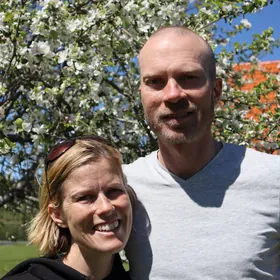
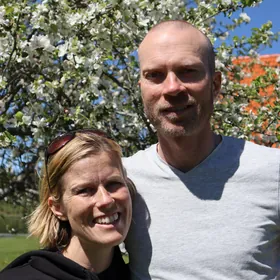
Restid till Eksjö 30 min och värdbilden högre i cirkeln (#63)
* Restid till Eksjö 30 min och värdbilden högre i cirkeln

- Eksjö: restiden ändrad till ca 30 min med bil på alla språk.
- Startsidan: bilden på värdarna förstoras lite och flyttas upp 6 px
  så att de sitter högre i den runda ramen.
- sw.js: VERSION 8 så att gästerna får de nya filerna.

Claude-Session: https://claude.ai/code/session_01LZzFokuvKrQBQnaf1Eot5Z

* Värdbilden: sänkt lite så att huvudet inte når kanten

Flyttas nu upp 3 px och förstoras 4 % i stället för 6 px och 8 %.

Claude-Session: https://claude.ai/code/session_01LZzFokuvKrQBQnaf1Eot5Z

* Värdbilden: ny beskärning från originalet i stället för zoom

Bilden beskärs från originalfotot med utsnittet flyttat nedåt, så att
värdarna sitter cirka 4 px högre i cirkeln utan att bilden förstoras.
CSS-förflyttningen är borttagen.

Claude-Session: https://claude.ai/code/session_01LZzFokuvKrQBQnaf1Eot5Z

---------

diff --git a/sw.js b/sw.js
@@ -7,7 +7,7 @@
 // så att de måste bytas samtidigt (annars kan en gammal sparad version av
 // ett skript visas en gång ihop med en ny sida).
 
-var VERSION = "9";
+var VERSION = "10";
 var CACHE = "ekon-" + VERSION;
 var VANTA_PA_NATET = 3000; // millisekunder innan den sparade sidan visas
 
